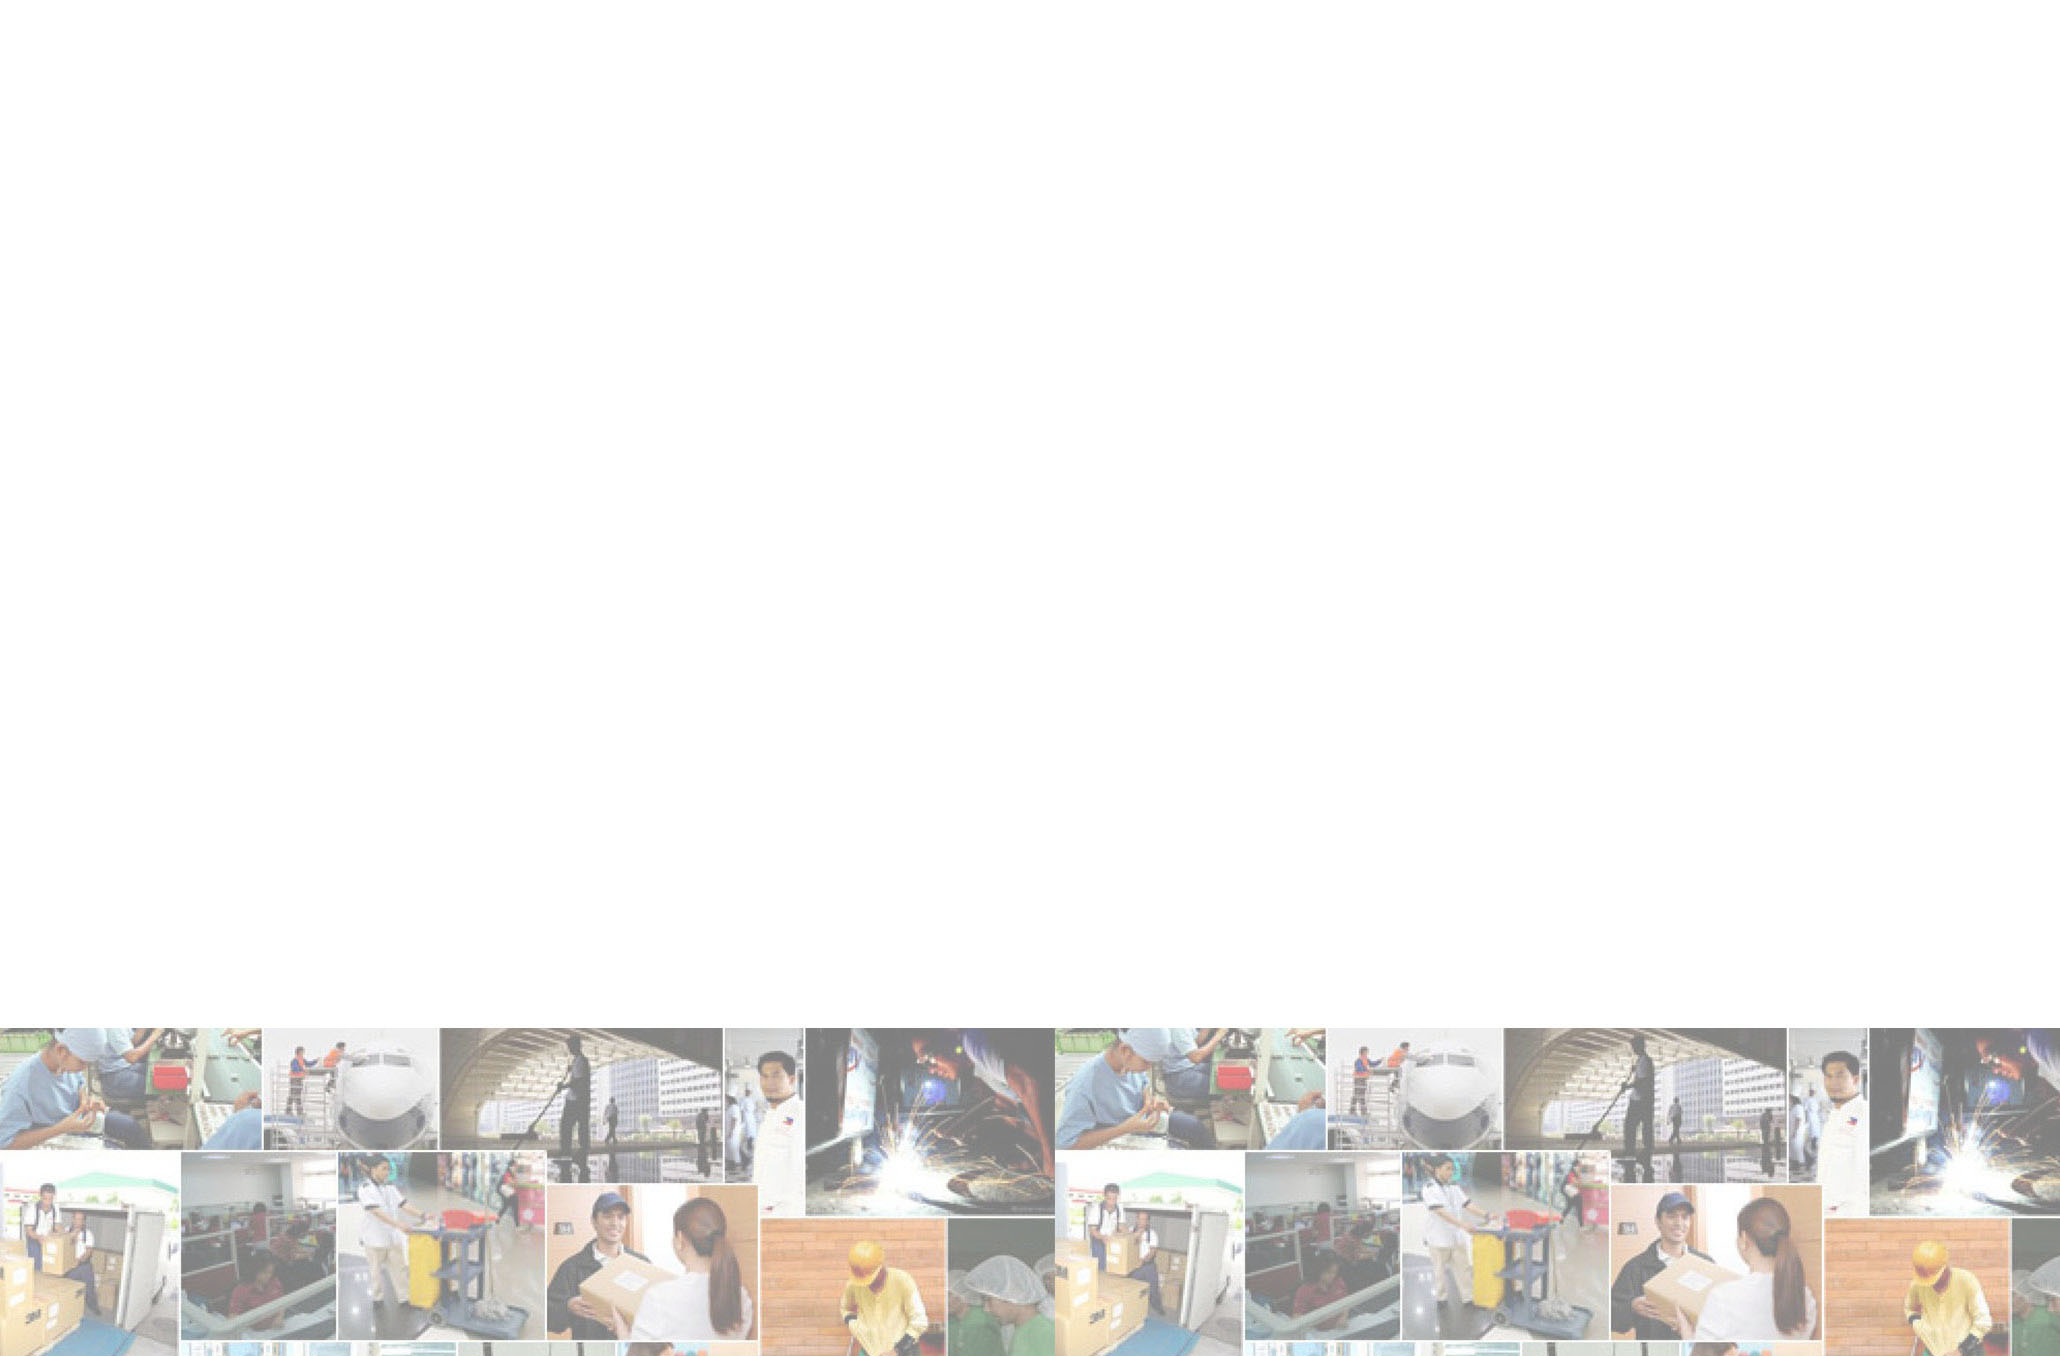
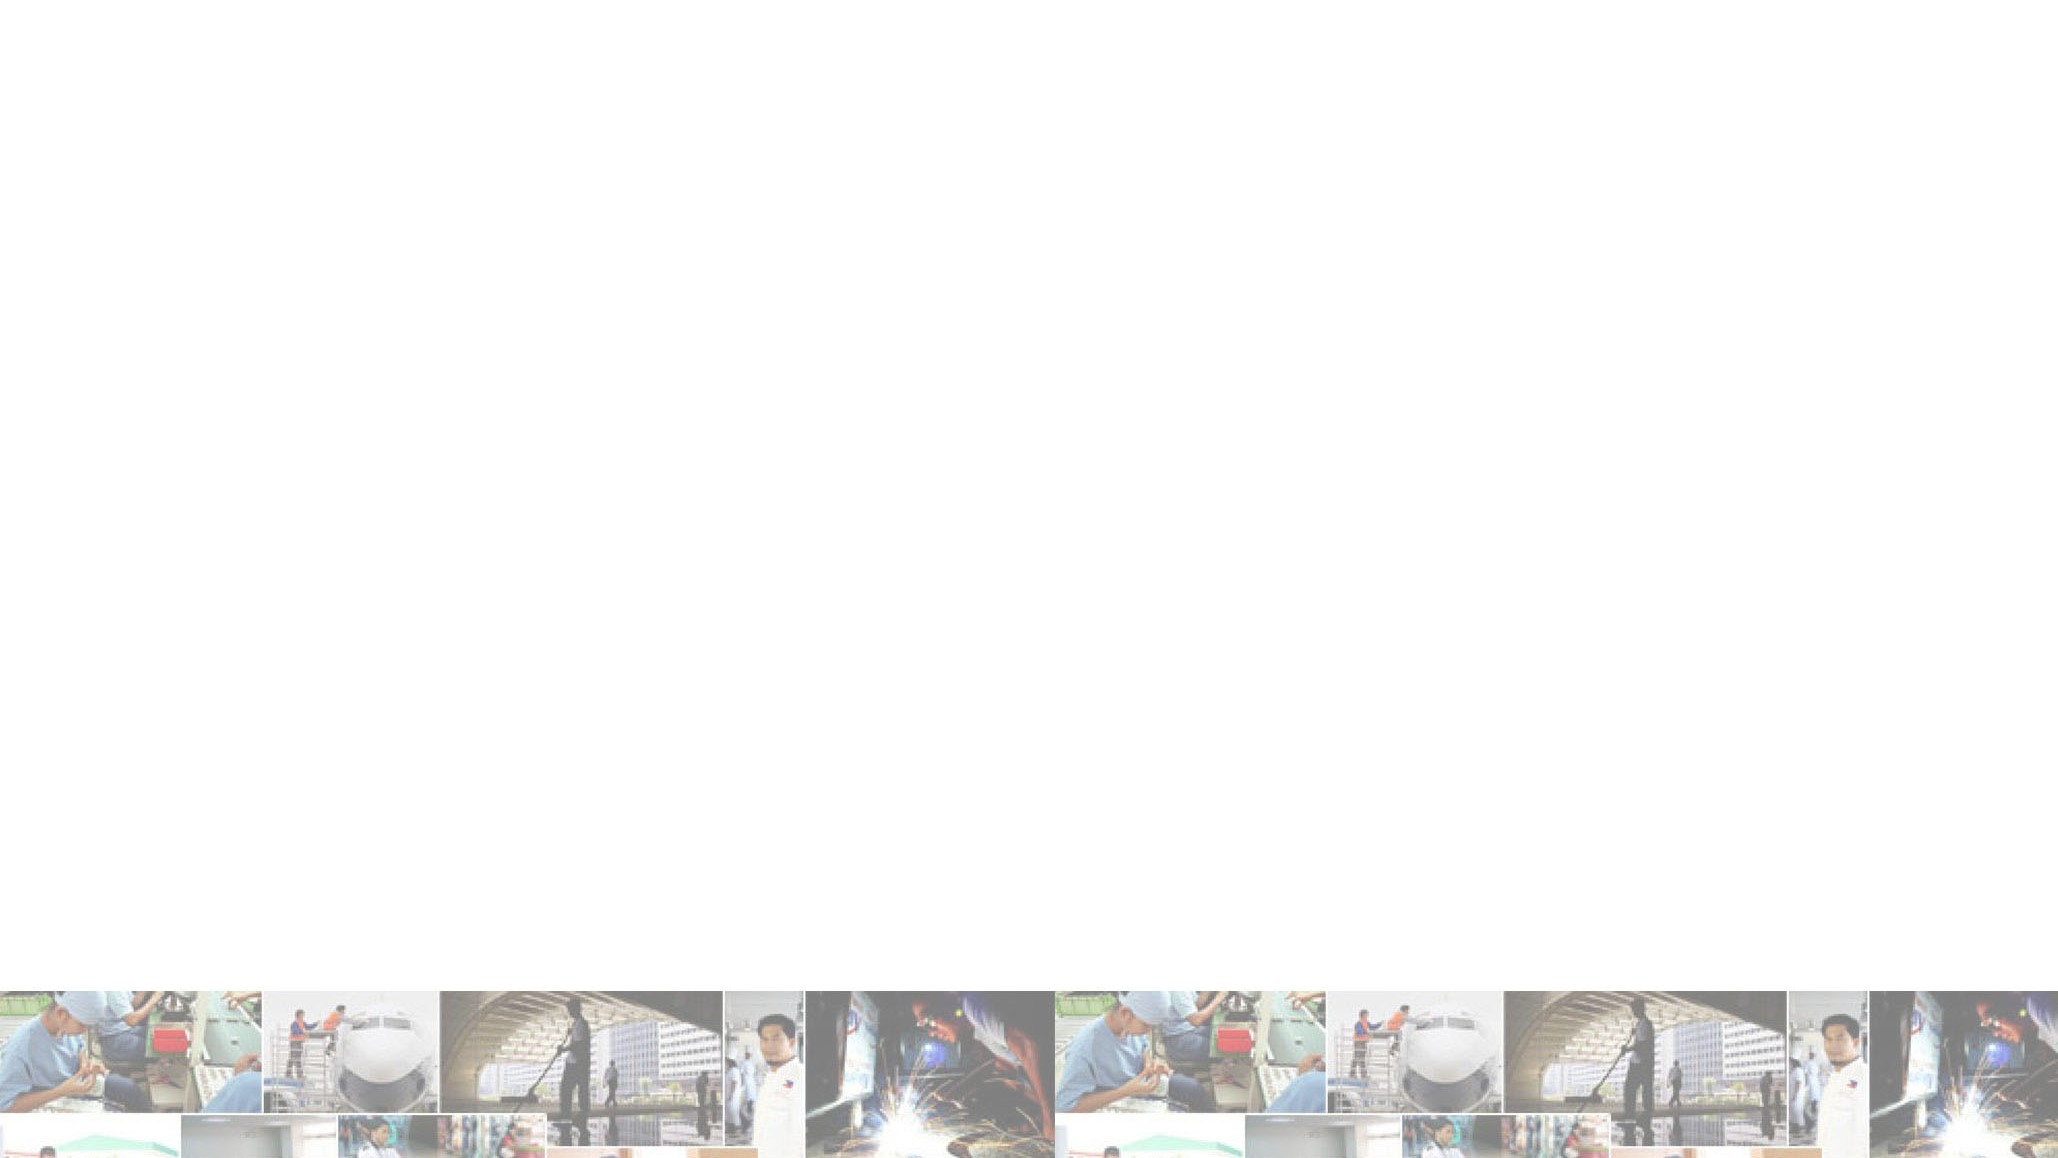
Commit July 05, 2023

Changed region(s): [[0.0, 0.7461, 1.0, 1.0]]

diff --git a/template/index.html b/template/index.html
@@ -4,115 +4,134 @@
     <title>Topserve Timekeeping System</title>
     <link rel="stylesheet" href="https://maxcdn.bootstrapcdn.com/bootstrap/4.0.0/css/bootstrap.min.css">
     <link rel="stylesheet" href="https://cdnjs.cloudflare.com/ajax/libs/bootstrap-select/1.14.0/css/bootstrap-select.min.css">
+    <meta name="viewport" content="width=device-width, initial-scale=1.0">
+    <link rel="stylesheet" href="https://maxcdn.bootstrapcdn.com/bootstrap/4.0.0/css/bootstrap.min.css">
     <script src="https://code.jquery.com/jquery-3.3.1.slim.min.js"></script>
     <script src="//cdnjs.cloudflare.com/ajax/libs/socket.io/3.1.3/socket.io.js"></script>
     <link rel="icon" type="image/x-icon" href="{{ url_for('static', filename='Photos/HD_TOPSERVE.png') }}" />
     
     <style>
-            body {
-                    background-image: url("{{ url_for('static', filename='Photos/background.jpg') }}");
-                    background-repeat: no-repeat;
-                    background-size: cover;
-                    background-position: center;
-                }
+      body {
+        background-repeat: no-repeat;
+        background-size: cover;
+        background-position: center;
+      }
 
-          table.data {
-            border-collapse: collapse;
-            border-spacing: 0;
-            width: 100%;
-            border: 1px solid #ddd;
-          }
+      .background-image {
+        position: fixed;
+        top: 0;
+        left: 0;
+        width: 100%;
+        height: 100%;
+        z-index: -1;
+        background-image: url("{{ url_for('static', filename='Photos/background.jpg') }}");
+        background-repeat: no-repeat;
+        background-size: cover;
+        background-position: center;
+      }
 
-          table.data th, table.data td {
-            text-align: left;
-            padding: 8px;
-          }
+      table.data {
+        border-collapse: collapse;
+        border-spacing: 0;
+        width: 100%;
+        border: 1px solid #ddd;
+      }
 
-          table.data tr:nth-child(even){background-color: #f2f2f2}
+      table.data th, table.data td {
+        text-align: left;
+        padding: 8px;
+      }
 
-         
-            .sticky-header {
-                position: fixed;
-                top: 0;
-                left: 0;
-                width: 100%;
-                z-index: 999;
-                background-color: #fff; /* adjust to your header color */
-                box-shadow: 0 2px 5px rgba(0,0,0,.2); /* optional: add a shadow to the header */
-            }
-            .sticky-header {
-            position: sticky;
-            top: 0;
-            z-index: 999;
-            background-color: #fff; /* replace with your desired background color */
-            }
+      table.data tr:nth-child(even){background-color: #f2f2f2}
 
-            /* Add sticky header to table */
-            #table thead th {
-                position: sticky;
-                top: 0;
-                z-index: 1;
-                background-color: #fff;
-            }
+      .sticky-header {
+        position: fixed;
+        top: 0;
+        left: 0;
+        width: 100%;
+        z-index: 999;
+        background-color: #fff; /* adjust to your header color */
+        box-shadow: 0 2px 5px rgba(0,0,0,.2); /* optional: add a shadow to the header */
+      }
 
-            .highlight {
-            background-color: yellow;
-            }
+      .sticky-header {
+        position: sticky;
+        top: 0;
+        z-index: 999;
+        background-color: #fff; /* replace with your desired background color */
+      }
 
+      /* Add sticky header to table */
+      #table thead th {
+        position: sticky;
+        top: 0;
+        z-index: 1;
+        background-color: #fff;
+      }
 
-            .h3-bgcolor{
-                color: #e60000;
-                padding-right: 0;
-                margin-right: 0;
-            }
+      .highlight {
+        background-color: yellow;
+      }
 
-            .header {
-              position: sticky;
-              top: 0;
-              z-index: 999;
-              border-block: 10px solid red;
-              padding: 10px;
-              margin-bottom: 10px;
-              display: flex;
-              align-items: center;
-              justify-content: space-between;
-            }
+      .h3-bgcolor{
+        color: #e60000;
+        padding-right: 0;
+        margin-right: 0;
+      }
 
-            .logo {
-              max-width: 100px;
-              height: auto;
-            }
+      .header {
+        position: sticky;
+        top: 0;
+        z-index: 999;
+        border-block: 10px solid red;
+        padding: 10px;
+        margin-bottom: 10px;
+        display: flex;
+        align-items: center;
+        justify-content: space-between;
+        background-color: white;
+      }
 
-            .title {
-              font-size: 35px;
-              font-weight: bold;
-            }
+      .logo {
+        max-width: 100px;
+        height: auto;
+      }
 
-            .logo-container {
-              margin-left: 20px;
-            }
+      .title {
+        font-size: 200%;
+        font-weight: bold;
+      }
 
+      .logo-container {
+        margin-left: 20px;
+      }
 
-            .input_box {
-                margin-right: 10px;
-            }
-            label {
-                font-size: 20px;
-                font-weight: bold;
-            }
+      .input_box {
+        margin-right: 10px;
+      }
 
-            input[type="submit"] {
-                font-size: 18px;
-                padding: 10px 20px;
-                font-weight: bold;
-              }
+      label {
+        font-size: 100%;
+        font-weight: bold;
+      }
 
+      input[type="submit"] {
+        font-size: 100%;
+        padding: 10px 20px;
+        font-weight: bold;
+      }
 
+      .container {
+        width: 100%;
+        max-width: 960px;
+        margin: 0 auto;
+      }
 
     </style>
 
 </head>
 <body>
+  <div class="background-image"></div>
     <header class="header">
       <h1 class="title">TOPSERVE TIMEKEEPING</h1>
       <div class="logo-container">
@@ -122,7 +141,7 @@
     </header>
 
 <div style="float: left; margin-left: 20px;">
-  <h2>Input Employee Data</h2>
+  <h3>Input Employee Data</h3>
   <br>
   <form method="post" action="/submit" onsubmit="return validateForm()">
     <!-- employee code -->
@@ -163,11 +182,13 @@
 </div>
 
 <div style="clear: both;"></div>
-<br><br>
+<br>
+<hr style="border-top: 3px double #8c8b8b;">
+<br>
 <div style="clear: both;"></div>
 
-<div style="float: left; margin-left: 20px;">
-  <h2>Upload Excel File</h2>
+<div style="float: left; margin-left: 20px; margin: 10px;">
+  <h3>Upload Excel File</h3>
   <form method="post" action="/upload" enctype="multipart/form-data" onsubmit="">
     <input type="file" name="file" id="fileInput" onchange="checkFileSelected()" style="font-weight: bold;">
     <input type="submit" value="Upload" id="submitButton" style="font-weight: bold;" disabled>
@@ -185,17 +206,14 @@
   </script>
 </div>
 
-<div style="float: left; margin-left: 20px;">
-  <h2>Download Summary</h2>
+<div style="float: left; margin-left: 20px; margin: 10px;">
+  <h3>Download Summary</h3>
   <p style="font-weight: bold;">Click the button to download the CSV file:</p>
   <a href="/download"><button id="downloadButton" style="font-weight: bold;">Download Excel</button></a>
 </div>
 
-
-
-
-<div style="float: left; margin-left: 20px;">
-    <h2 class="h3-bgcolor">Delete Data</h2>
+<div style="float: left; margin-left: 20px; margin: 10px;">
+    <h3 class="h3-bgcolor">Delete Data</h3>
     <form method="post" action="/delete">
       <label for="delete_employee_code">Delete Row</label>
       <input type="text" name="delete_employee_code" id="delete_employee_code" placeholder="Employee Code">
@@ -205,8 +223,8 @@
     </form>
 </div>
   
-<div style="float: left; margin-left: 20px;">
-    <h2 class="h3-bgcolor">Delete Table</h2>
+<div style="float: left; margin-left: 20px; margin: 10px;">
+    <h3 class="h3-bgcolor">Delete Table</h3>
     <form method="post" action="/delete_data" onsubmit="return confirmDelete();">
       <p style="font-weight: bold;">All employee data will be deleted</p>
       <button type="submit" name="/delete_data" style="font-weight: bold;">Delete Data</button>
@@ -218,10 +236,9 @@
     </script>
 </div>
 
-<div style="float: left; margin: 50px; margin-left: 100px;">
+<div style="float: left; margin: 50px; margin-left: 20px;">
     <a href="{{ url_for('table') }}" class="btn btn-primary" style="font-weight: bold;">Go to table</a>
 </div>
-
 
 
 <div class="modal fade" id="errorModal" tabindex="-1" role="dialog" aria-labelledby="errorModalLabel" aria-hidden="true">

diff --git a/main.py b/main.py
@@ -466,6 +466,7 @@ def calculate_timeanddate(employee_name, employee_code, cost_center, day_of_week
                     ND_regular_days_1st_8_hrs = 8 - ND_overtime
                     ND_regular_days_excess_8_hrs = ND_overtime - ND_regular_days_1st_8_hrs
 
+
             elif overtime < 8:
                 ot_first_8 = overtime
                 ot_first_8 = "{:.2f}".format(ot_first_8)
@@ -478,8 +479,6 @@ def calculate_timeanddate(employee_name, employee_code, cost_center, day_of_week
                     ND_overtime = overtime - Night_diff
                     ND_regular_days_1st_8_hrs = overtime - ND_overtime
 
-
-        else:
             # These conditions are for Night Difference within the regular hours
             if actual_datetime_timein > datetime_start_night:
                 ND_regular_days_1st_8_hrsnotOT = date_time_end_night - actual_datetime_timein
@@ -493,6 +492,9 @@ def calculate_timeanddate(employee_name, employee_code, cost_center, day_of_week
                 ND_regular_days_1st_8_hrsnotOT = datetime_end_night_before1 - actual_datetime_timein
                 ND_regular_days_1st_8_hrsnotOT = timedelta_to_decimal(ND_regular_days_1st_8_hrsnotOT)
 
+            print("ND_regular_days_1st_8_hrsnotOT", ND_regular_days_1st_8_hrsnotOT)
+
+        else:
 
             # This condition is for calculating the overtime
             if actual_datetime_timeout > datetime_timeout:
@@ -523,8 +525,10 @@ def calculate_timeanddate(employee_name, employee_code, cost_center, day_of_week
                     if actual_datetime_timeout > datetime_start_night:
                         Night_diff = actual_datetime_timeout - datetime_start_night
                         Night_diff = timedelta_to_decimal(Night_diff)
+                        print("Night Difference", Night_diff)
                         ND_overtime = overtime - Night_diff
                         ND_regular_days_1st_8_hrs = overtime - ND_overtime
+                        print("ND_regular_days_1st_8_hrs", ND_regular_days_1st_8_hrs)
 
             # This line of code is for combining the night difference of regular hours and overtime
             ND_regular_days_1st_8_hrs = ND_regular_days_1st_8_hrs + ND_regular_days_1st_8_hrsnotOT
@@ -770,7 +774,7 @@ def calculate_timeanddate(employee_name, employee_code, cost_center, day_of_week
     ND_special_holiday_RD_1st_8_hrs = hour_estimate(ND_special_holiday_RD_1st_8_hrs)
     ND_special_holiday_RD_excess_8_hrs = hour_estimate(ND_special_holiday_RD_excess_8_hrs)
 
-    print(overtime)
+    print("Overtime", overtime)
 
 
 
@@ -940,8 +944,19 @@ def upload():
 
         for i, row in df.iterrows():
             # Employee inputs
-            employee_name = row['Employee Name'].upper()
-            employee_code = row['Employee Code'].upper()
+            employee_name = row['Employee Name']
+            employee_code = row['Employee Code']
+
+            if not isinstance(employee_name, str):  # Use isinstance() to check if employee_name is not a string
+                print("End of Uploading")
+                break
+
+            if isinstance(employee_name, str):
+                employee_name = employee_name.upper()
+
+            if isinstance(employee_code, str):
+                employee_code = employee_code.upper()
+
             cost_center = row['Cost Center']
 
             # Date of transaction
@@ -961,6 +976,8 @@ def upload():
                 error_message = f"Invalid value {date_obj} in the Date column. Allowed format dd/mm/yyyy."
                 traceback.print_exc()  # Print the traceback for debugging purposes
                 return render_template('index.html', error_message=error_message)
+
+
 
             # Description inputs
             work_descript = row['Work Description'].lower()
@@ -989,6 +1006,8 @@ def upload():
             calculate_timeanddate(employee_name, employee_code, cost_center, day_of_week, date_transact1, date_obj, work_descript,
                                   time_in, time_out, time_in1, time_out1, actual_time_in, actual_time_out,
                                   actual_time_in1, actual_time_out1)
+
+
 
 
         return render_template('index.html', dtr=dtr)
@@ -1248,8 +1267,9 @@ def download():
         status = employee_df['Status']
 
         # Check if the status is not approved and set overtime to 0
-        # if 'Not Approved' in status.values:
-        #     employee_df.loc[status == 'Not Approved', 'Overtime'] = 0
+        if 'Not Approved' in status.values:
+            employee_df.loc[status == 'Not Approved', 'Total of 8 hours Overtime'] = 0
+            employee_df.loc[status == 'Not Approved', 'Excess of 8 hours Overtime'] = 0
 
 
         total_working_days = employee_df.loc[(employee_df['Work Description'] == 'regular day') & (employee_df['Weekday or Weekend'] == 'Weekday'), 'Working Day'].sum()
